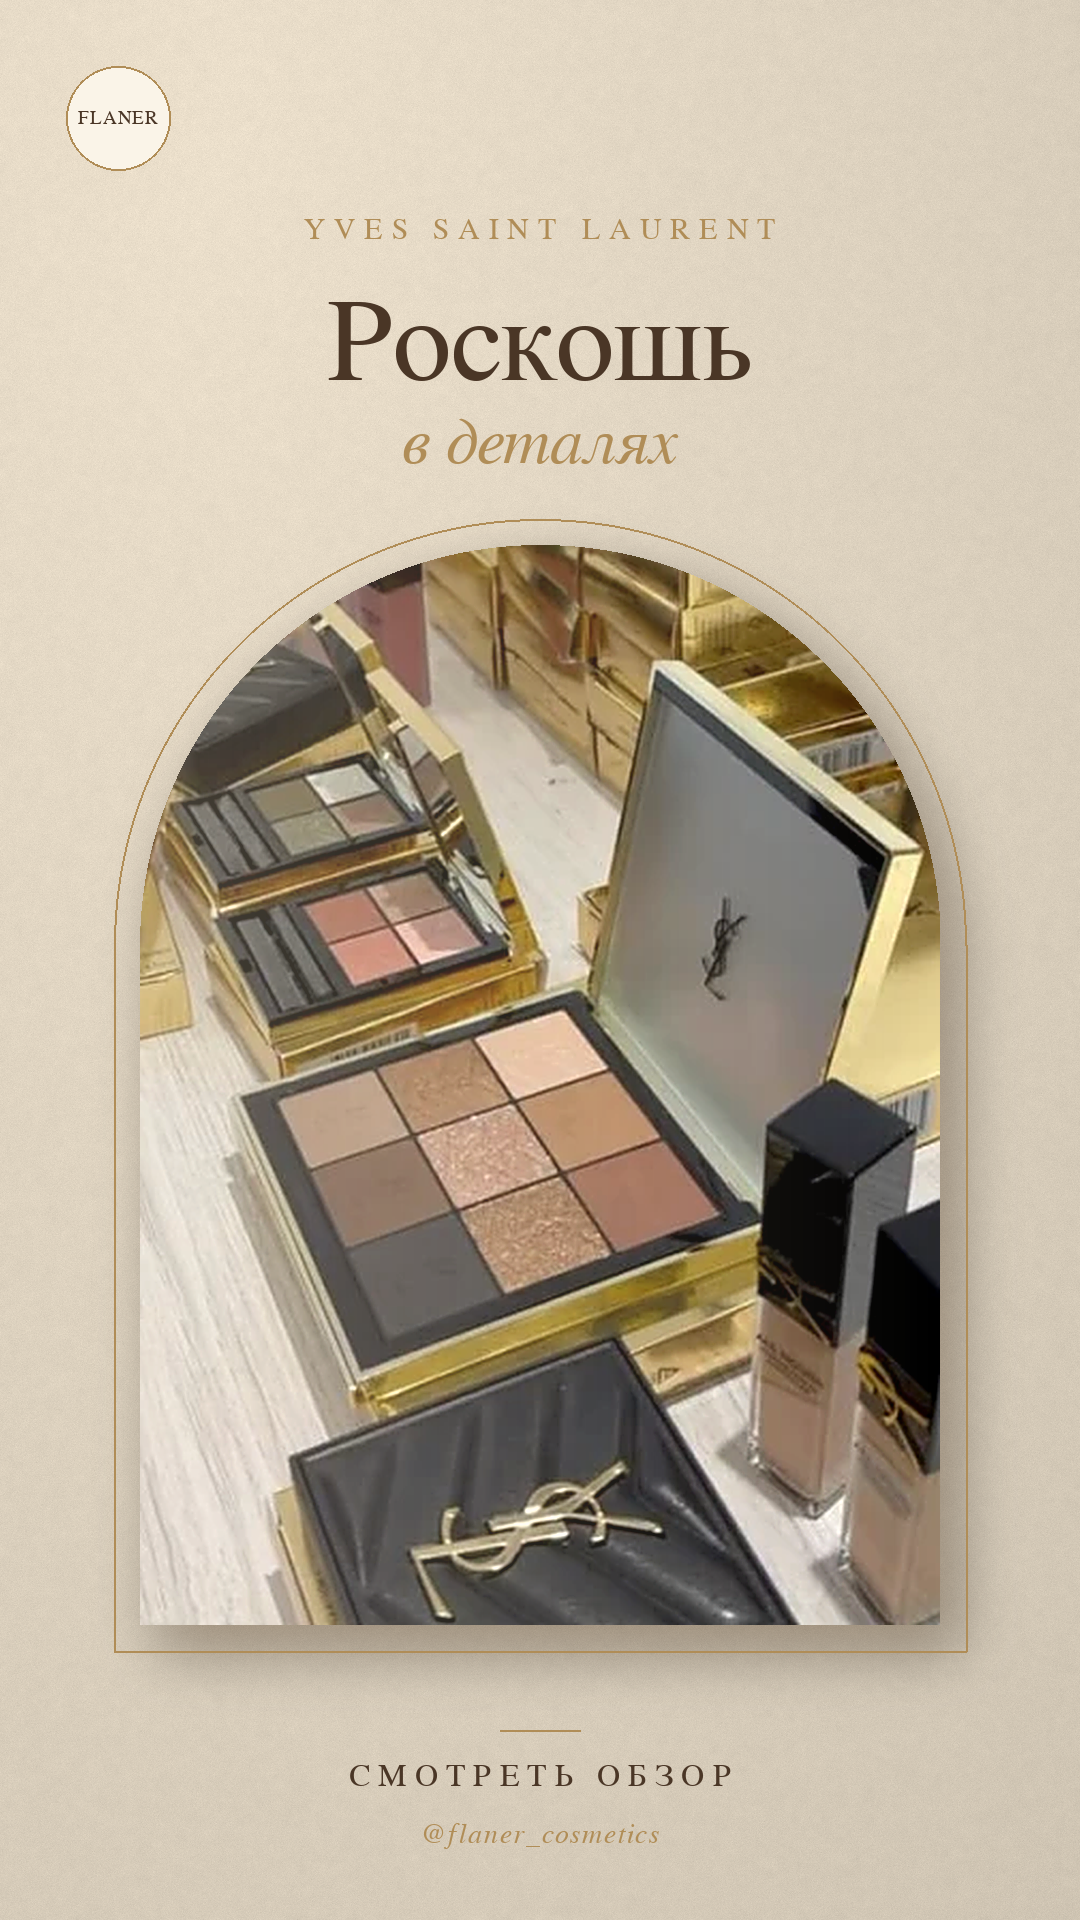
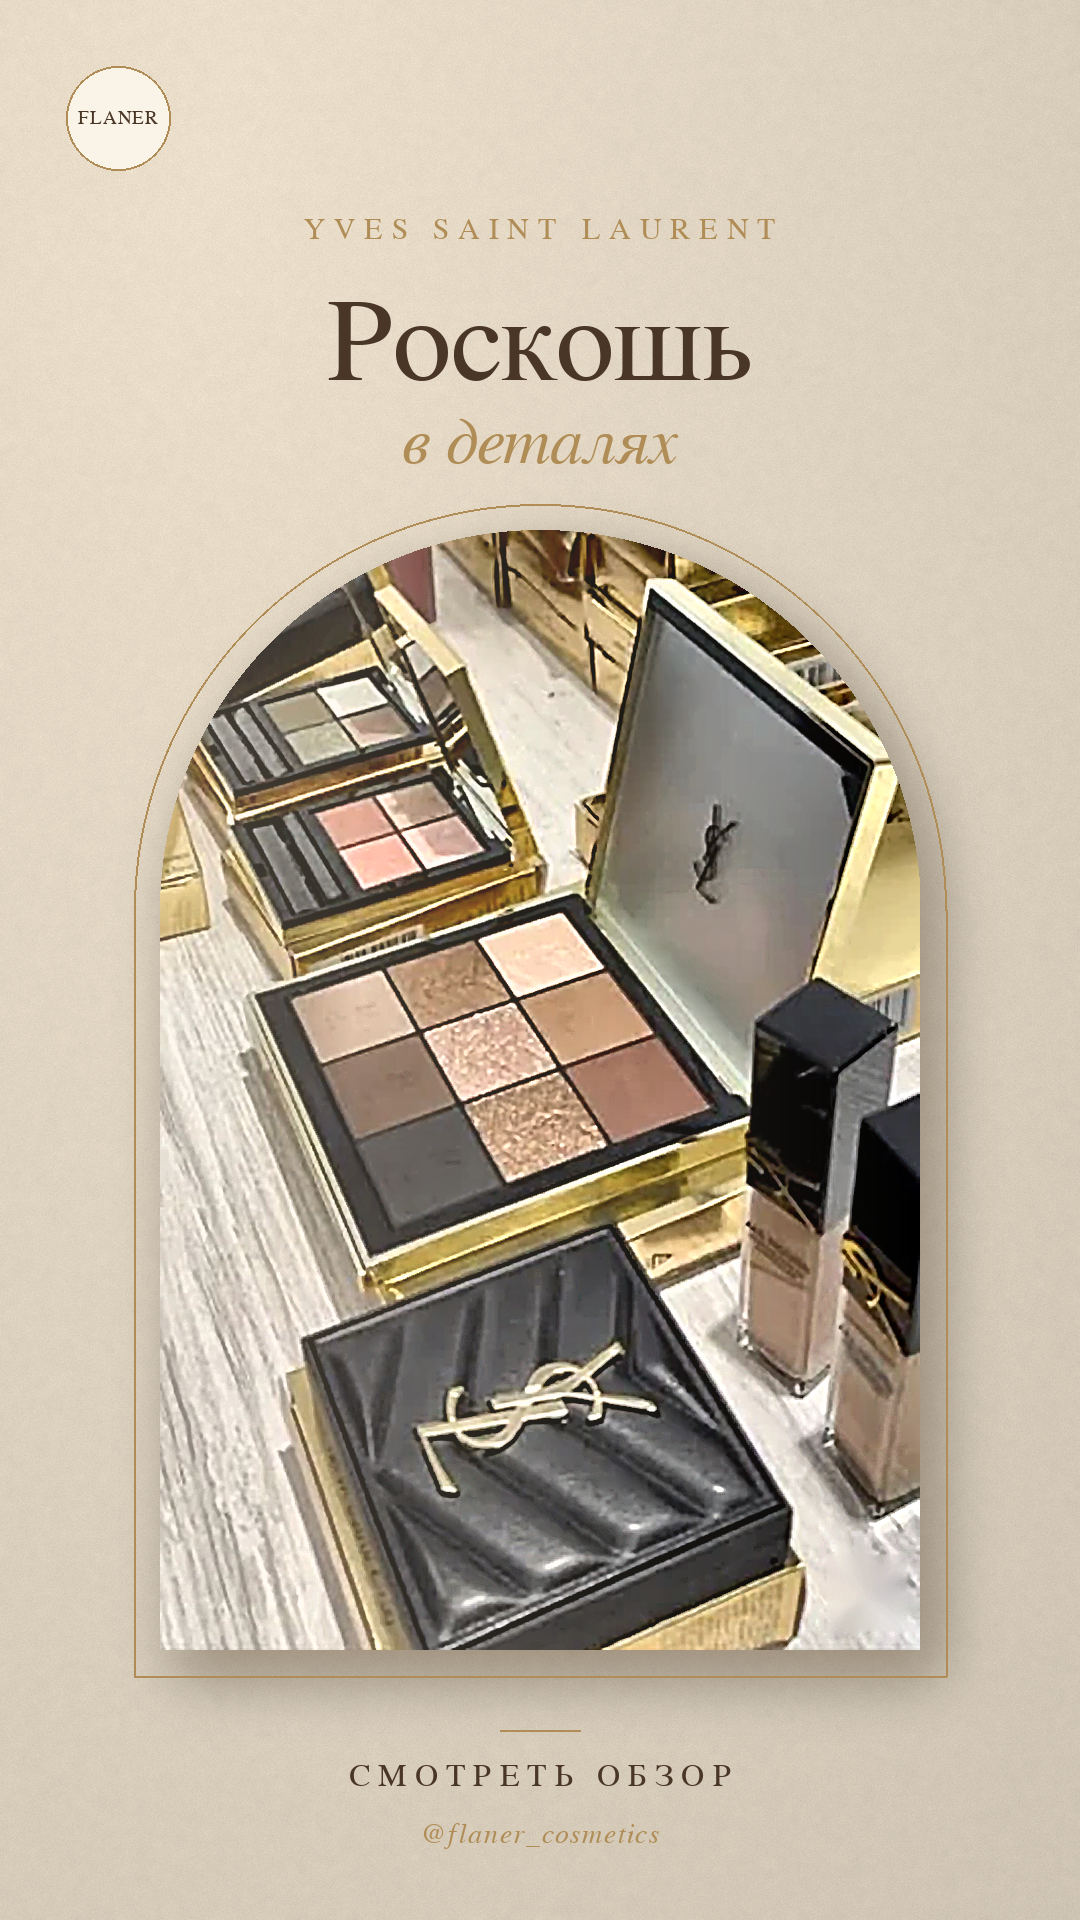
Sharpen YSL cover: inpaint UI, staged upscale, show full clutch
Claude-Session: https://claude.ai/code/session_01St4xobnr2P77ypHjic36e8

diff --git a/design/make_ysl_cover.py b/design/make_ysl_cover.py
@@ -4,6 +4,7 @@ Usage: python3 design/make_ysl_cover.py <photo> [out.png]
 Photo crop box below is tuned for the flaner_cosmetics YSL table screenshot.
 """
 import sys
+import cv2
 import numpy as np
 from PIL import Image, ImageDraw, ImageFilter, ImageFont, ImageEnhance
 
@@ -32,14 +33,34 @@ def spaced(d, xy, text, font, fill, track=0, anchor="c"):
         d.text((x, y), c, font=font, fill=fill)
         x += w + track
 
+def enhance(src_path, box, size):
+    """Clean the UI overlay, upscale in two steps, then recover local contrast and detail."""
+    bgr = cv2.imread(src_path)
+    if bgr is None:  # cv2 cannot read webp on some builds
+        bgr = cv2.cvtColor(np.asarray(Image.open(src_path).convert("RGB")), cv2.COLOR_RGB2BGR)
+    mask = np.zeros(bgr.shape[:2], np.uint8)
+    mask[832:870, 428:468] = 255                     # sound button in the screenshot
+    bgr = cv2.inpaint(bgr, mask, 5, cv2.INPAINT_TELEA)
+    x0, y0, x1, y1 = box
+    crop = bgr[y0:y1, x0:x1]
+    w, h = size
+    mid = cv2.resize(crop, None, fx=2, fy=2, interpolation=cv2.INTER_CUBIC)
+    mid = cv2.bilateralFilter(mid, 5, 25, 5)          # smooth compression blocks
+    big = cv2.resize(mid, (w, h), interpolation=cv2.INTER_LANCZOS4)
+    lab = cv2.cvtColor(big, cv2.COLOR_BGR2LAB)
+    lab[..., 0] = cv2.createCLAHE(1.6, (6, 6)).apply(lab[..., 0])
+    big = cv2.cvtColor(lab, cv2.COLOR_LAB2BGR)
+    img = Image.fromarray(cv2.cvtColor(big, cv2.COLOR_BGR2RGB))
+    img = img.filter(ImageFilter.UnsharpMask(3, 140, 2)).filter(ImageFilter.UnsharpMask(1, 60, 1))
+    return img
+
 def main(src, out):
     bg = plaster().convert("RGBA")
-    photo = Image.open(src).convert("RGB").crop((100, 300, 474, 805))
-    aw, ah = 800, 1080
-    photo = photo.resize((aw, ah), Image.LANCZOS).filter(ImageFilter.UnsharpMask(2, 90, 2))
+    aw, ah = 760, 1120
+    photo = enhance(src, (100, 330, 474, 879), (aw, ah))
     photo = ImageEnhance.Color(photo).enhance(0.92)
     photo = ImageEnhance.Contrast(photo).enhance(1.05)
-    ax, ay = (W - aw) // 2, 545
+    ax, ay = (W - aw) // 2, 530
 
     mask = Image.new("L", (aw, ah), 0)                      # arch window
     m = ImageDraw.Draw(mask)
